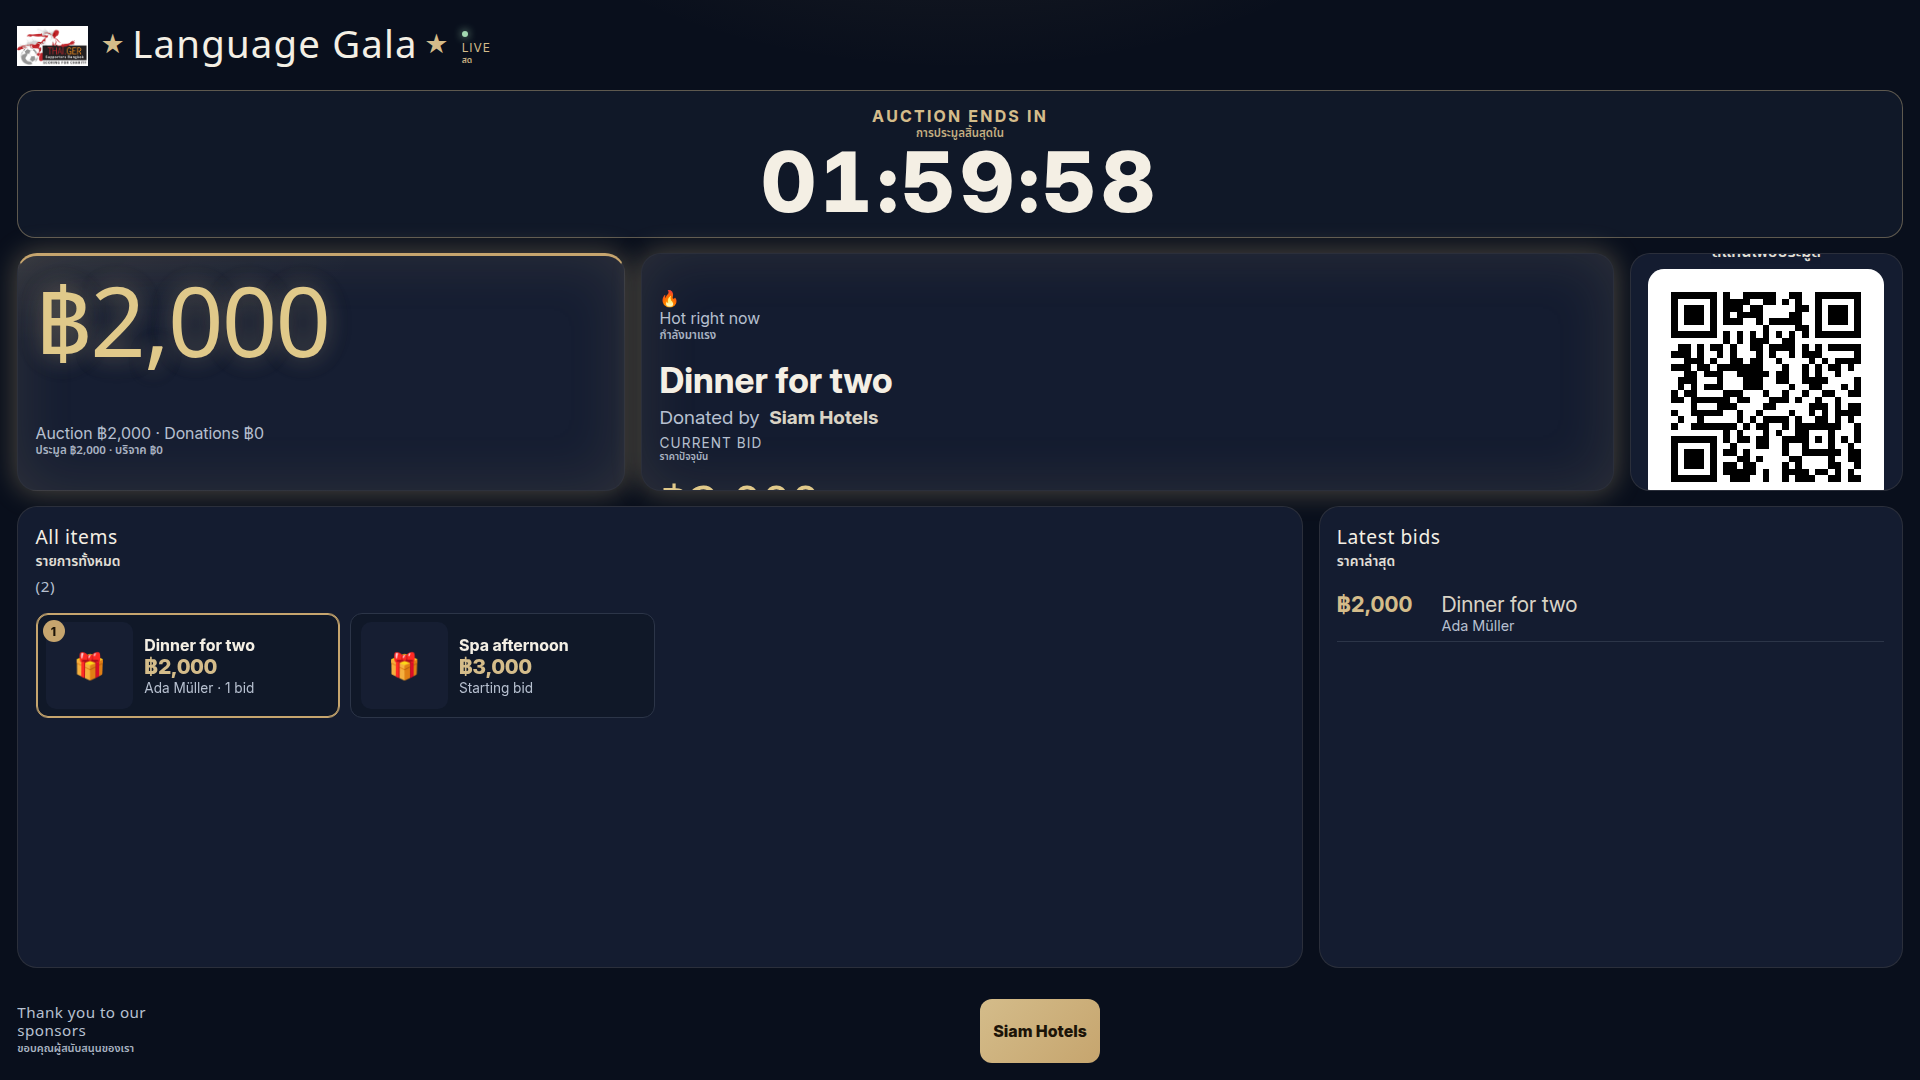
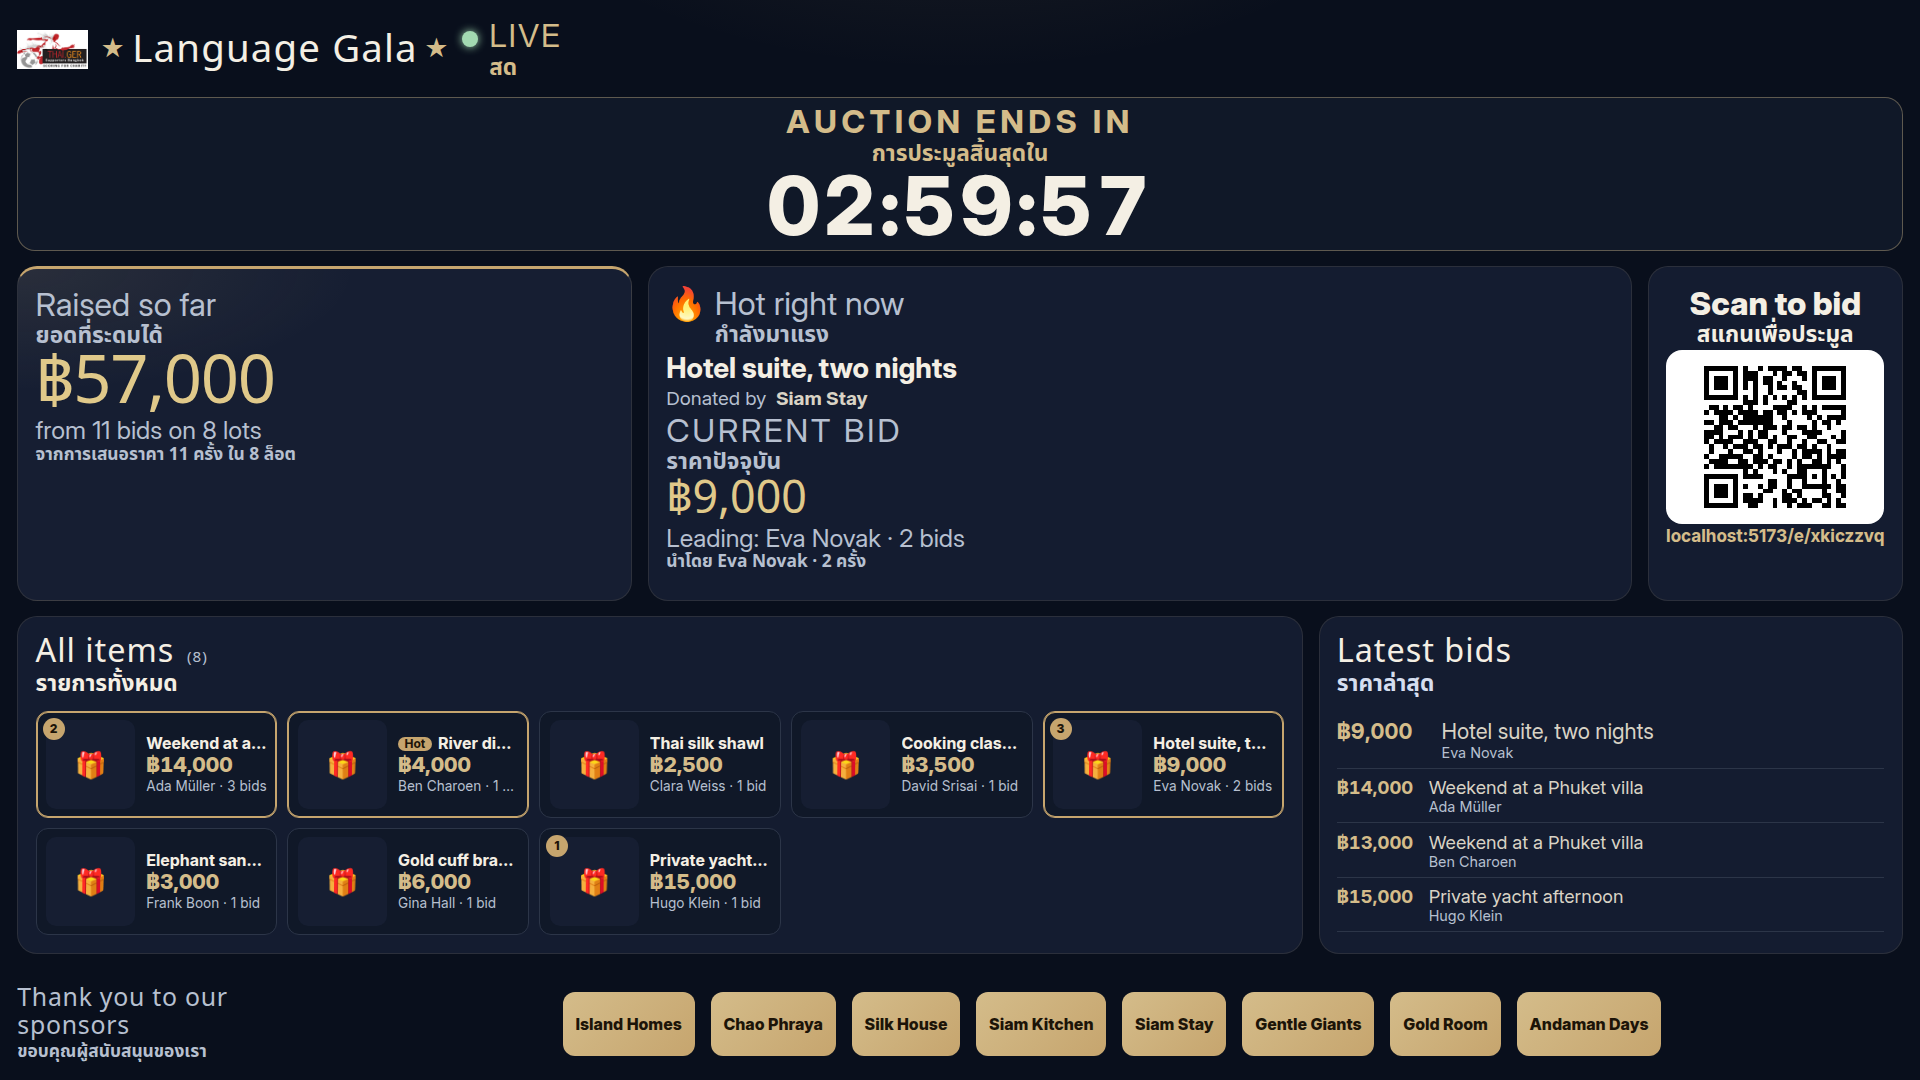
Give the bilingual big screen room for a readable Thai line.
Thai stays 70% of the English line, the spotlight bid and the join caption stay inside their cards, and the item grid and bid feed are filled from a full page of lots.

diff --git a/web/src/styles.css b/web/src/styles.css
@@ -811,9 +811,12 @@ a.button { display: inline-flex; align-items: center; justify-content: center; t
   align-items: stretch;
   min-height: 0;
   flex: 1;
-  grid-template-columns: minmax(0, 0.38fr) minmax(0, 1.62fr);
+}
+.engager.lang-both .highlight-row:has(.highlight-photo) {
+  grid-template-columns: minmax(0, 0.32fr) minmax(0, 1.68fr);
 }
 .engager.lang-both .highlight-text { display: flex; flex-direction: column; justify-content: flex-start; min-height: 0; }
+.engager.lang-both .highlight-text > * { flex: none; }
 .engager.lang-both .engager-top p { margin: 0.04rem 0; }
 .engager.lang-both .huge { margin: 0.05rem 0; line-height: 0.95; }
 .engager.lang-both .big-amount { margin: 0.02rem 0 0; line-height: 1; }
@@ -841,9 +844,13 @@ a.button { display: inline-flex; align-items: center; justify-content: center; t
   .engager.lang-both .join-qr-url { margin-top: 0.25rem; font-size: clamp(0.95rem, 1.6vh, 1.15rem); }
   .engager.lang-both .sponsor-strip { max-height: 11vh; }
   .engager.lang-both .sponsor-strip h3 { max-width: 18rem; }
-  .engager.lang-th .engager-top { height: 24vh; }
+  .engager.lang-both .feed li:nth-child(n + 5),
+  .engager.lang-th .feed li:nth-child(n + 5) { display: none; }
+  .engager.lang-th .engager-top { height: 30vh; }
   .engager.lang-th .join-qr { justify-content: flex-start; }
-  .engager.lang-th .join-qr-code svg { width: clamp(108px, 16vh, 190px); }
+  .engager.lang-th .join-qr-code svg { width: clamp(96px, 13vh, 156px); }
+  .engager.lang-th .big-amount { font-size: clamp(1.8rem, 4.4vh, 2.7rem); line-height: 1.05; }
+  .engager.lang-th .highlight h2 { display: -webkit-box; -webkit-line-clamp: 1; -webkit-box-orient: vertical; overflow: hidden; }
   .engager.lang-th .auction-clock-kicker,
   .engager.lang-th .join-qr-title,
   .engager.lang-th .totals .muted:first-child,
@@ -854,15 +861,41 @@ a.button { display: inline-flex; align-items: center; justify-content: center; t
 
 /* 720p: keep the second language inside the row, and leave the board a full page of cards. */
 @media (min-width: 900px) and (min-height: 500px) and (max-height: 820px) {
-  .engager.lang-both .engager-top { height: 38vh; }
-  .engager.lang-both .auction-clock-digits { font-size: clamp(3rem, 8.5vh, 4.2rem); }
+  .engager.lang-both .engager-top { height: 34vh; }
+  .engager.lang-both .auction-clock { padding: 0.15rem 0.75rem 0.25rem; }
+  .engager.lang-both .auction-clock-digits { font-size: 2.7rem; }
+  .engager.lang-both .auction-clock-kicker,
+  .engager.lang-both .live-badge,
+  .engager.lang-both .totals .muted:first-child,
+  .engager.lang-both .highlight-text > p.muted:not(.spot-sub),
+  .engager.lang-both .spot-label,
+  .engager.lang-both .join-qr-title { font-size: 1.55rem; }
+  .engager.lang-both .totals .muted,
+  .engager.lang-both .spot-sub,
+  .engager.lang-both .sponsor-strip h3 { font-size: 1.15rem; }
+  .engager.lang-both .board-head h3,
+  .engager.lang-both .feed h3 { font-size: 1.2rem; margin: 0 0 0.15rem; }
+  .engager.lang-both .engager-top > .panel { padding: 0.35rem 0.7rem 0.2rem; }
+  .engager.lang-both .feed li:nth-child(n + 5) { display: none; }
+  .engager.lang-th .feed li:nth-child(n + 5) { display: none; }
   .engager.lang-both .huge { font-size: clamp(2rem, 6.4vh, 2.8rem); }
   .engager.lang-both .big-amount { font-size: clamp(1.7rem, 4.6vh, 2.15rem); }
+  .engager.lang-both .highlight .sponsor { flex-wrap: nowrap; }
   .engager.lang-both .highlight .sponsor-logo { height: 20px; }
   .engager.lang-both .highlight h2 { font-size: 1.2rem; }
-  .engager.lang-both .join-qr-code svg { width: clamp(92px, 13vh, 128px); }
-  .engager.lang-both .feed li { padding: 0.2rem 0; }
-  .engager.lang-th .engager-top { height: 28vh; }
-  .engager.lang-th .join-qr-code svg { width: clamp(84px, 12.5vh, 128px); }
+  .engager.lang-both .join-qr-code svg { width: clamp(88px, 12vh, 120px); }
+  .engager.lang-both .feed li { font-size: 0.98rem; padding: 0.04rem 0; line-height: 1.05; }
+  .engager.lang-both .feed .bi > span,
+  .engager.lang-both .feed .bi small { line-height: 1.05; }
+  .engager.lang-both .sponsor-strip { max-height: 8vh; }
+  .engager.lang-both .engager-bottom > .panel { padding: 0.4rem 0.7rem; }
+  .engager.lang-both .spot-sub { line-height: 1.05; }
+  .engager.lang-both .highlight .sponsor { margin: 0; }
+  .engager.lang-th .engager-top { height: 30vh; }
+  .engager.lang-th .auction-clock { min-height: 0; padding: 0.2rem 0.75rem 0.3rem; }
+  .engager.lang-th .auction-clock-digits { font-size: 2.8rem; }
+  .engager.lang-th .join-qr-code svg { width: clamp(80px, 11vh, 112px); }
+  .engager.lang-th .big-amount { font-size: 1.7rem; }
+  .engager.lang-th .feed li:nth-child(n + 4) { display: none; }
   .engager.lang-th .huge { font-size: 2.4rem; }
 }

diff --git a/web/src/components/SponsorBadge.tsx b/web/src/components/SponsorBadge.tsx
@@ -1,15 +1,19 @@
 import { API_BASE, Sponsor } from "../lib/api";
+import { translate, type ScreenLang } from "../i18n";
 
 /** "Donated by" line with optional logo. Logo alt text carries the name for screen readers. */
-export function SponsorBadge({ sponsor, size = "sm" }: { sponsor?: Sponsor | null; size?: "sm" | "lg" }) {
+export function SponsorBadge({ sponsor, size = "sm", mode = "en" }: { sponsor?: Sponsor | null; size?: "sm" | "lg"; mode?: ScreenLang }) {
   if (!sponsor) return null;
+  const lang = mode === "th" || mode === "de" ? mode : "en";
+  const [before, after] = translate(lang, "bid.donatedBy", { name: "\u0000" }).split("\u0000");
   return (
     <p className={`sponsor sponsor-${size}`}>
-      <span className="muted">Donated by</span>
+      {before && <span className="muted">{before.trim()}</span>}
       {sponsor.logoUrl ? (
         <img src={`${API_BASE}${sponsor.logoUrl}`} alt={sponsor.name} className="sponsor-logo" />
       ) : null}
       <strong>{sponsor.name}</strong>
+      {after?.trim() ? <span className="muted">{after.trim()}</span> : null}
     </p>
   );
 }

diff --git a/web/src/pages/EngagerPage.tsx b/web/src/pages/EngagerPage.tsx
@@ -379,7 +379,7 @@ export function EngagerPage() {
               <div className="highlight-text">
                 <p className="muted">{hot.includes(highlight.id) ? <>🔥 <Line mode={screenLang} k="screen.hot" /></> : <Line mode={screenLang} k="screen.featuring" />}</p>
                 <h2>{highlight.title}</h2>
-                <SponsorBadge sponsor={highlight.sponsor} size="lg" />
+                <SponsorBadge sponsor={highlight.sponsor} size="lg" mode={screenLang} />
                 <p className="spot-label"><Dual mode={screenLang} text={(lang) => spotLabel(lang, highlight, closed)} /></p>
                 <p className="big-amount">{money(spotAmount(highlight))}</p>
                 <p className="muted spot-sub"><Dual mode={screenLang} text={(lang) => spotSub(lang, highlight, closed)} /></p>
